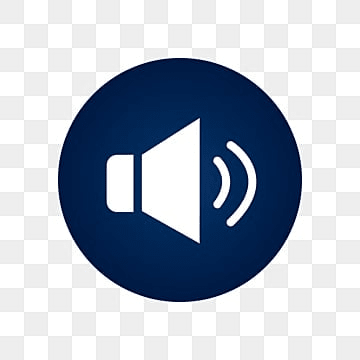
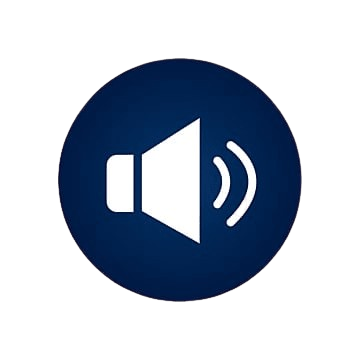
Updated main.py

diff --git a/main.py b/main.py
@@ -2,8 +2,8 @@ import customtkinter as ctk
 import os
 from PIL import Image, ImageTk
 
-ctk.set_appearance_mode("light")  # "dark" is also available
-ctk.set_default_color_theme("blue")  # You can change the theme color
+ctk.set_appearance_mode("dark")  # Set the UI mode
+ctk.set_default_color_theme("blue")  # Set the color theme
 
 class App(ctk.CTk):
     def __init__(self):
@@ -11,22 +11,23 @@ class App(ctk.CTk):
         self.title("Storytelling App")
         self.geometry("800x600")
 
-        # Layout configuration
+        # Configure the grid to distribute space equally
+        # Ensure both columns have equal weight
+        self.grid_columnconfigure(0, weight=1)
         self.grid_columnconfigure(1, weight=1)
+        
+        # Ensure both rows have equal weight
+        self.grid_rowconfigure(0, weight=1)
         self.grid_rowconfigure(1, weight=1)
 
         # Icons for the buttons
         icons = [
-    "assets/images/text.jpg",
-    "assets/images/picture_gallery.jpg",
-    "assets/images/sound.png",
-    "assets/images/movie.jpg"
-        ]   
-        for icon in icons:
-            if not os.path.exists(icon):
-                print(f"File not found: {icon}")
-            else:
-                print(f"File exists: {icon}")        
+            "assetes/images/text.png",
+            "assetes/images/pic.png",
+            "assetes/images/sound.png",
+            "assetes/images/movie.png"
+        ]
+        
         button_texts = ["Text", "Image", "Sound", "Video"]
         actions = [self.on_text, self.on_image, self.on_sound, self.on_video]
 
@@ -35,14 +36,14 @@ class App(ctk.CTk):
             frame = ctk.CTkFrame(self, corner_radius=10)
             frame.grid(row=i//2, column=i%2, padx=20, pady=20, sticky="nsew")
             
-            # Load icon
+            # Load and display icons
             img = Image.open(icons[i])
-            img = img.resize((50, 50), Image.ANTIALIAS)  # Resize the image
+            img = img.resize((200, 180), Image.Resampling.LANCZOS)  # Resize image with high-quality downsampling
             photo = ImageTk.PhotoImage(img)
 
-            icon_label = ctk.CTkLabel(frame, image=photo)
-            icon_label.image = photo  # keep a reference!
-            icon_label.pack(pady=(20, 5))
+            icon_label = ctk.CTkLabel(frame, image=photo, text="")
+            icon_label.image = photo  # Keep a reference 
+            icon_label.pack( pady=(20, 5))
 
             button = ctk.CTkButton(frame, text=button_texts[i], command=actions[i])
             button.pack(pady=(5, 20))
